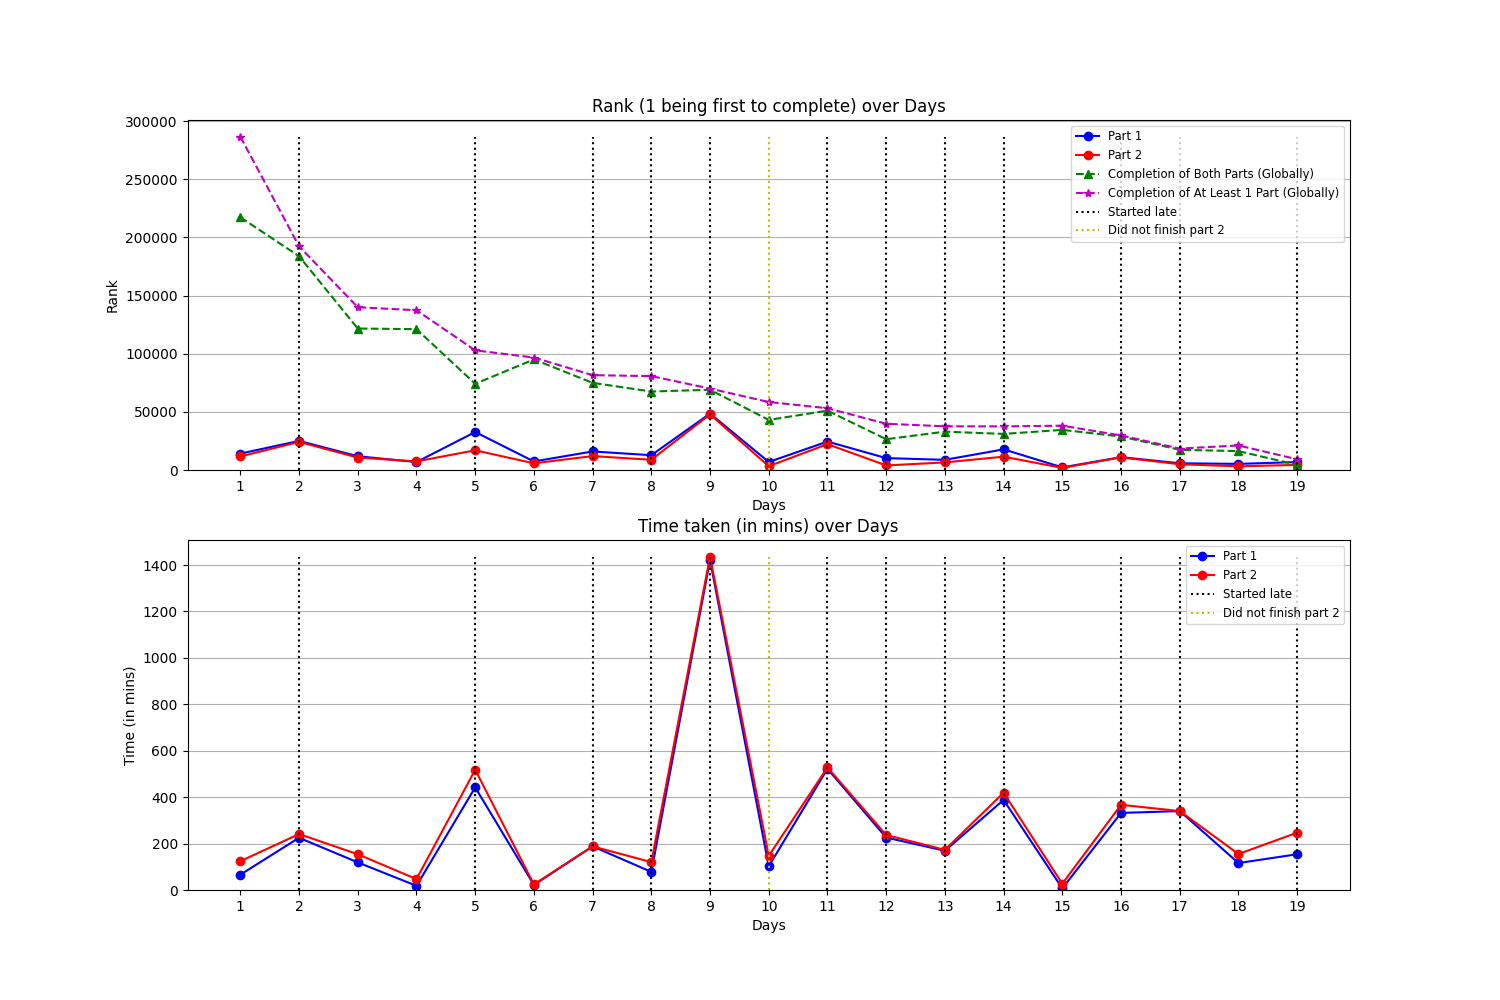
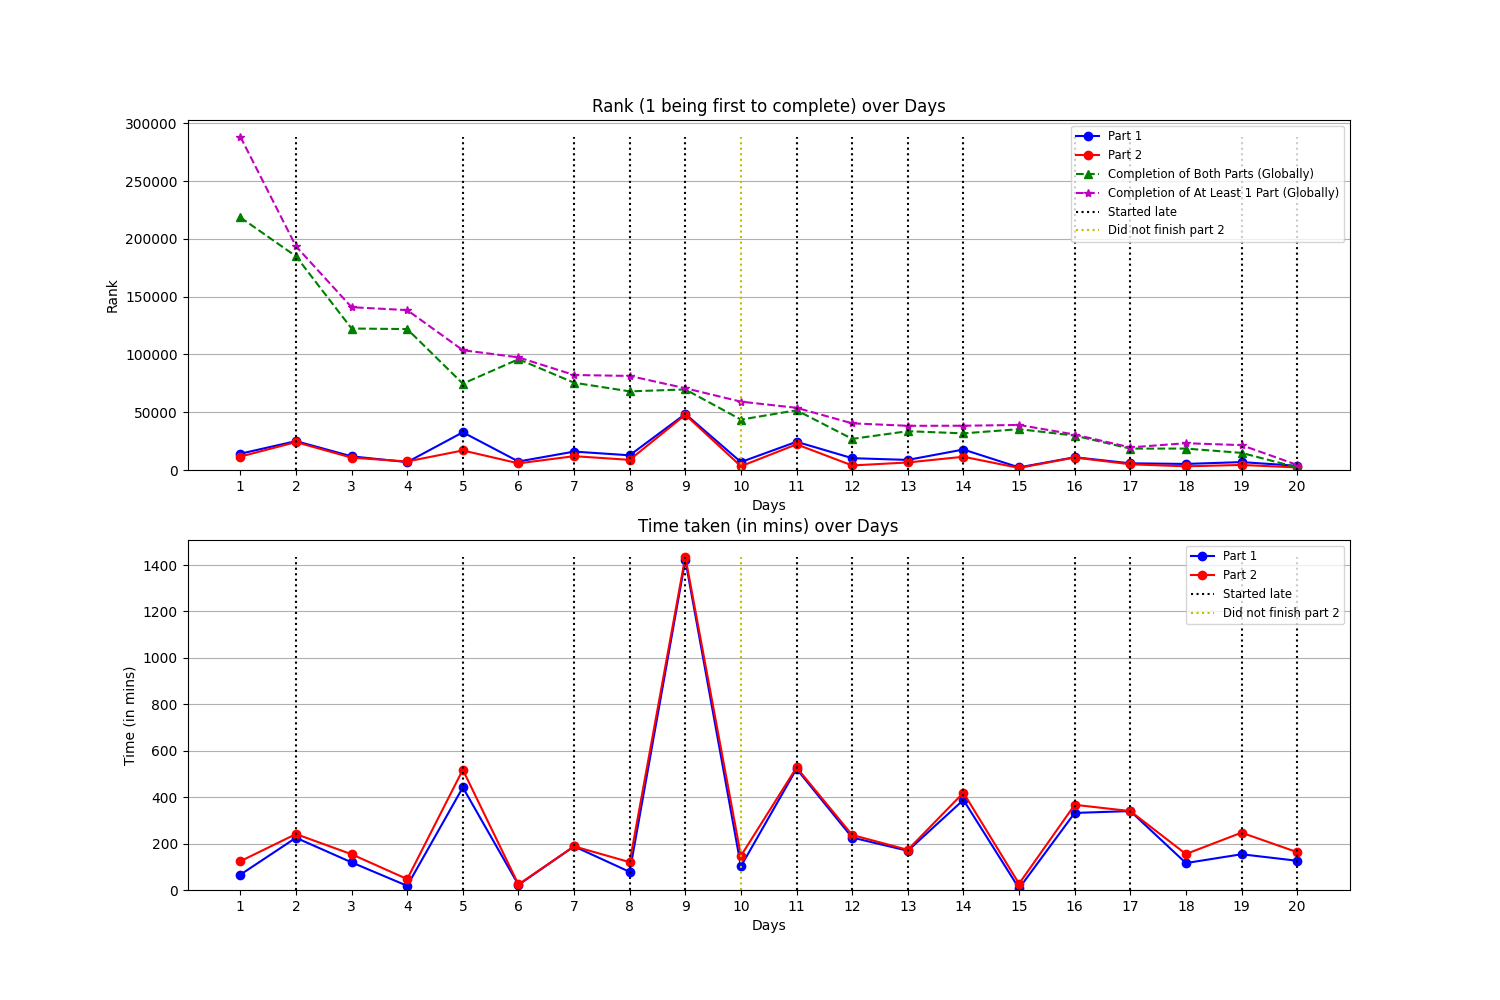
Added day 20 stats and code

diff --git a/day_20/day_20.py b/day_20/day_20.py
@@ -1,0 +1,116 @@
+from collections import deque
+from math import lcm
+
+nodes = {}
+q = deque()
+H, L = 0, 0
+FNAME = "day_20.txt"
+
+class node:
+    def __init__(self, name, dests):
+        self.name = name
+        self.dests = dests
+
+class flip(node):
+    def __init__(self, name, dests):
+        super().__init__(name, dests)
+        self.state = "off"
+
+    def prop(self, name, pulse):
+        global H, L, q
+        if pulse == "low":
+            self.state = "on" if self.state == "off" else "off"
+            send = "high" if self.state == "on" else "low"
+            for d in self.dests:
+                if d not in nodes:
+                    nodes[d] = final(d)
+                q.append((d, self.name, send))
+                H += 1 if send == "high" else 0
+                L += 1 if send == "low" else 0
+
+class conj(node):
+    def __init__(self, name, dests):
+        super().__init__(name, dests)
+        self.froms = {}
+        self.rmb = "low"
+
+    def prop(self, name, pulse):
+        global H, L, q
+        self.froms[name] = pulse
+        send = "low" if all(c == "high" for c in self.froms.values()) else "high"
+        for d in self.dests:
+            if d not in nodes:
+                nodes[d] = final(d)
+            q.append((d, self.name, send))
+            H += 1 if send == "high" else 0
+            L += 1 if send == "low" else 0
+    
+class broadcaster(node):
+    def __init__(self, name, dests):
+        super().__init__(name, dests)
+
+    def prop(self):
+        global L, q
+        for d in self.dests:
+            if d not in nodes:
+                nodes[d] = final()
+            q.append((d, self.name, "low"))
+        L += len(self.dests) + 1
+
+class final(node):
+    def __init__(self, name):
+        self.name = name
+
+    def prop(self, name, pulse):
+        return
+
+conjs = []
+with open(FNAME, "r") as f:
+    for line in f:
+        name, dests = line.strip().split(" -> ")
+        dests = dests.split(", ")
+        if name == "broadcaster":
+            nodes[name] = broadcaster(name, dests)
+        else:
+            t, name = name[0], name[1:]
+            if t == "%":
+                nodes[name] = flip(name, dests)
+            else:
+                nodes[name] = conj(name, dests)
+                conjs.append(name)
+
+for n in nodes.keys():
+    for d in nodes[n].dests:
+        if d in conjs:
+            nodes[d].froms[nodes[n].name] = "low"
+
+def part_1():
+    global H, L, q
+    for _ in range(1000):
+        nodes["broadcaster"].prop()
+        while q:
+            to, fro, send = q.popleft()
+            nodes[to].prop(fro, send)
+    print(H * L)
+
+# rg inputs to rx
+# kd, zf, vg, gs inputs to rg --> all must send high inputs to rg for low output to rx
+periods = {}
+def part_2():
+    global state, q
+    count = 0
+    changed = 0
+    while changed < 4:
+        count += 1
+        nodes["broadcaster"].prop()
+        while q:
+            to, fro, send = q.popleft()
+            if to == "rg" and send == "high":
+                if fro in periods.keys():
+                    changed += 1
+                periods[fro] = count - periods.get(fro, 0)
+            nodes[to].prop(fro, send)
+    print(lcm(*[p for p in periods.values()]))
+
+part_1()
+part_2()

diff --git a/stats/stats.py b/stats/stats.py
@@ -29,7 +29,7 @@ for ls in [one_rank, one_time, two_rank, two_time, two_stars_tots, add]:
     ls.reverse()
 
 # days where I did not start on time
-anomalies = [2, 5, 7, 8, 9, 11, 12, 13, 14, 16, 17, 19]
+anomalies = [2, 5, 7, 8, 9, 11, 12, 13, 14, 16, 17, 19, 20]
 
 # days where I did not finish
 DNF_2 = [10]

diff --git a/README.md b/README.md
@@ -62,6 +62,9 @@ Huge thanks to the creator of AOC, [Eric Wastl](http://was.tl/).
 19. [Aplenty](https://adventofcode.com/2023/day/19) (2/2 stars)
     * Another blasted interval problem (PTSD from day 5 frfr). I was so stumped by part 2 that I spent 2 hours on it. Thankfully I managed to find a solution using bottom-up DP, which I'm still not very good at implementing or recognising when I need to use it.
     * I decided to use classes to represent the workflow, hoping that it would be easier. Instead I think I overdid it and spent quite a bit of time implementing it, but it was definitely fun.
+20. [Pulse Propagation](https://adventofcode.com/2023/day/20) (2/2 stars)
+    * Another fun exercise in classes in Python and an interesting primer to electronic circuits. I chose to manually propagate the signals, which worked better than expected and I got part 1 first try.
+    * I tried to brute force part 2 but failed, then I saw a circuit diagram someone posted on the Discord, which gave me the idea to check the modules leading up to the conjunction before rx. Since the conjunction requires all inputs to itself to be high to send a low signal to rx, I checked the periods of each module and took the LCM.
 
 # Analysis of Times and Completion
 ![](stats/stat_of_the_day.png?raw=true)
